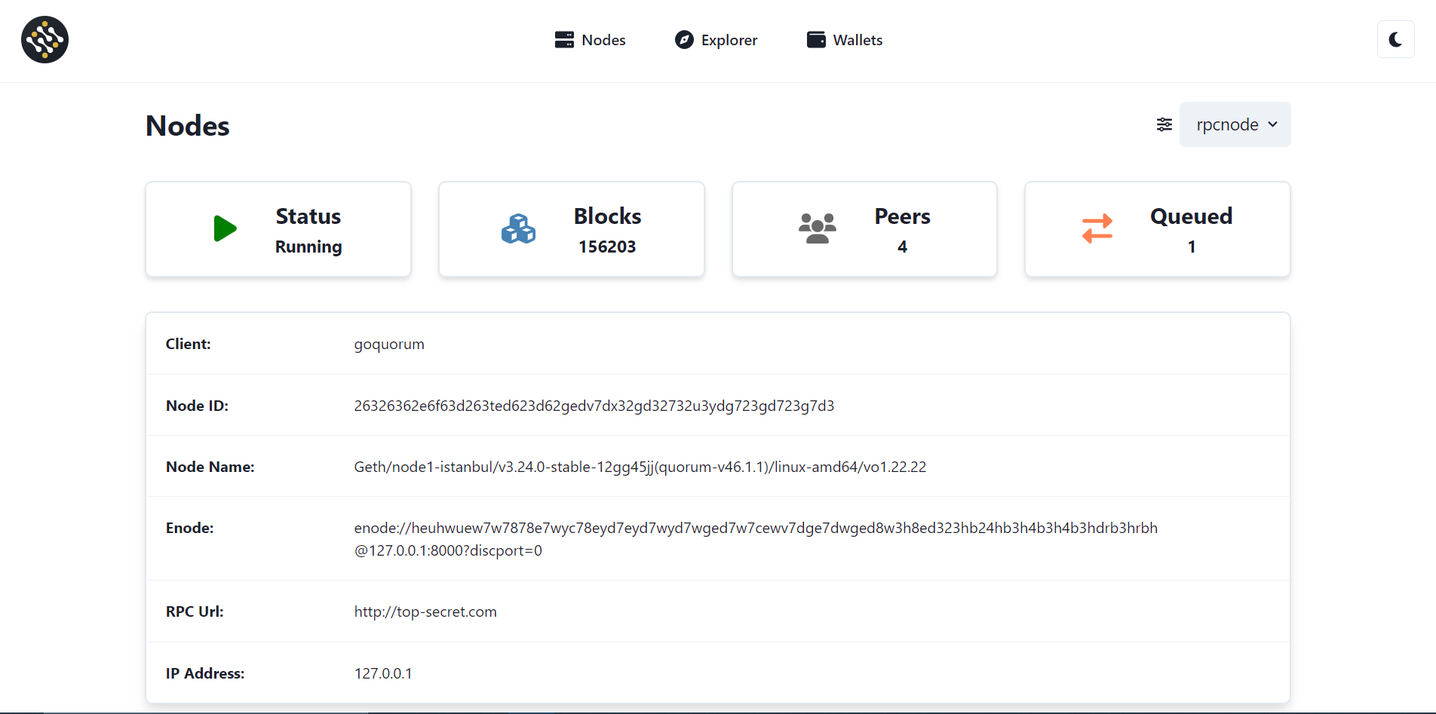
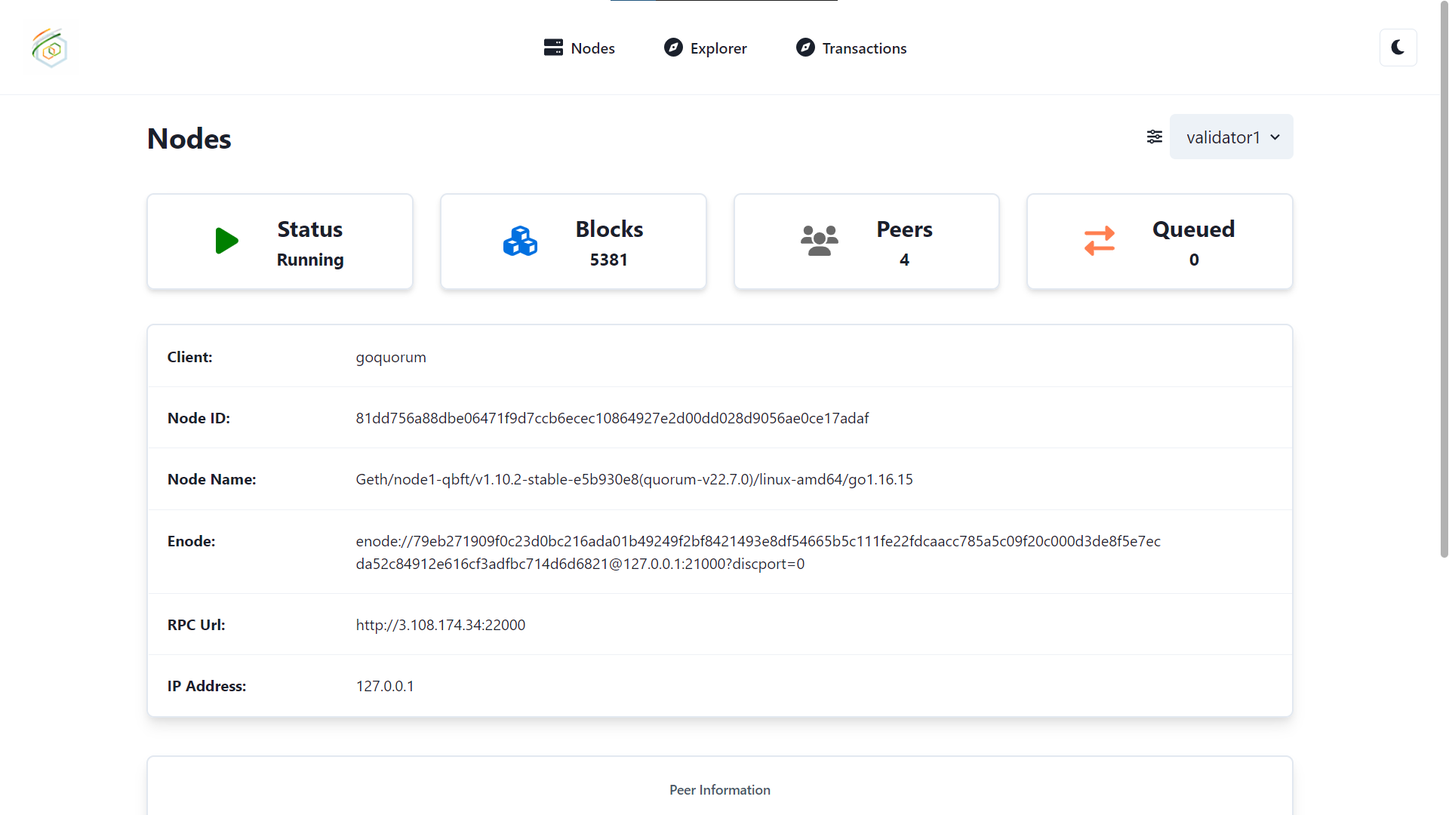
Update config, images, peers api

diff --git a/src/common/components/Footer/ConsensysIcon.tsx b/src/common/components/Footer/ConsensysIcon.tsx
@@ -1,7 +1,8 @@
 /* eslint-disable jsx-a11y/alt-text */
 /* eslint-disable @next/next/no-img-element */
 
-import { HStack, useColorModeValue } from "@chakra-ui/react";
+import { HStack, Text, useColorModeValue } from "@chakra-ui/react";
+import { QuorumIcon } from "../NavBar/QuorumIcon";
 
 export const ConsensysIcon = ({ ...rest }) => {
   const lightMode = "gray.800";
@@ -14,15 +15,10 @@ export const ConsensysIcon = ({ ...rest }) => {
     //   style={{ width: '180px', height: '50px', cursor: "pointer" }}
[1 lines of base64/hex data omitted]
 
-    <HStack onClick={() => window.open("https://www.trential.com/", "_blank")}
+    <HStack onClick={() => window.open("https://blockchain.cse.iitk.ac.in/", "_blank")}
       cursor="pointer">
-      <svg width="50" height="50" viewBox="0 0 21 21" fill="none" xmlns="http://www.w3.org/2000/svg">
-        <path d="M19.8147 10.8408C20.1731 10.4818 20.1731 9.89806 19.8147 9.53912L17.264 6.98893C16.905 6.63048 16.3213 6.63048 15.9628 6.98893L15.6322 7.31954C15.3416 7.61015 14.8688 7.61015 14.5782 7.31954L12.9124 5.65384C12.6218 5.36323 12.6218 4.89035 12.9124 4.59974L13.2431 4.26914C13.602 3.91068 13.602 3.32642 13.2431 2.96797L10.6924 0.417278C10.3339 0.0588239 9.75015 0.0588239 9.39122 0.417278L6.8405 2.96797C6.66683 3.14213 6.57115 3.3725 6.57115 3.61855C6.57115 3.8641 6.66683 4.09548 6.8405 4.26914L7.1711 4.59974C7.46171 4.89035 7.46171 5.36323 7.1711 5.65384L5.5054 7.31954C5.21479 7.61015 4.74192 7.61015 4.45131 7.31954L4.1207 6.98893C3.76174 6.63048 3.17799 6.63048 2.81953 6.98893L0.268841 9.53912C-0.0896136 9.89806 -0.0896136 10.4818 0.268841 10.8403L2.81953 13.391C3.17799 13.7494 3.76174 13.7494 4.1207 13.391L6.67139 10.8408C7.02985 10.4818 7.02985 9.89806 6.67139 9.53912L6.34079 9.20851C6.20003 9.06775 6.12257 8.88042 6.12257 8.68149C6.12257 8.48248 6.20003 8.29515 6.34079 8.15439L8.00649 6.48871C8.15176 6.34341 8.34267 6.27101 8.53351 6.27101C8.72443 6.27101 8.91527 6.34341 9.06061 6.48871L9.23321 6.66136C9.37397 6.80261 9.45145 6.98944 9.45145 7.18841V11.3445C9.45145 11.5567 9.36534 11.7642 9.21496 11.9136L6.10637 15.0223C5.64969 15.4789 5.64969 16.2216 6.10637 16.6784L9.21351 19.7855C9.67015 20.2421 10.4129 20.2421 10.8695 19.7855L13.9766 16.6784C14.4334 16.2216 14.4334 15.4789 13.9766 15.0223L10.8695 11.9152C10.7182 11.7638 10.6321 11.5567 10.6321 11.3445V7.18841C10.6321 6.98893 10.7095 6.80211 10.8503 6.66136L11.023 6.48871C11.3136 6.19861 11.7864 6.1981 12.077 6.48871L13.7427 8.15439C14.0334 8.445 14.0334 8.9179 13.7427 9.20851L13.4121 9.53912C13.0537 9.89806 13.0537 10.4818 13.4121 10.8403L15.9628 13.391C16.3213 13.7494 16.905 13.7494 17.264 13.391L19.8147 10.8408Z" fill="#0170E0" />
-      </svg>
-
-      <svg width="100" height="50" viewBox="0 0 50 16" fill="blue" xmlns="http://www.w3.org/2000/svg">
-        <path d="M4.07397 12.0348C3.70442 12.0348 3.37732 11.9823 3.09267 11.8775C2.81305 11.7676 2.5758 11.6153 2.38107 11.4206C2.19129 11.2208 2.04648 10.9811 1.94664 10.7014C1.84671 10.4218 1.79679 10.1096 1.79679 9.76506V5.75002H1.13763C1.01778 5.75002 0.915339 5.71254 0.830453 5.63765C0.745568 5.55773 0.703125 5.44285 0.703125 5.29307V4.38666L1.93908 4.14697L2.39603 2.25179C2.45595 2.01208 2.6258 1.89223 2.90542 1.89223H4.11893V4.16193H6.04404V5.75002H4.11893V9.60773C4.11893 9.7875 4.16137 9.93735 4.24626 10.0572C4.33618 10.1721 4.46351 10.2295 4.62832 10.2295C4.7132 10.2295 4.78312 10.222 4.83809 10.207C4.89801 10.187 4.94793 10.167 4.98786 10.1471C5.03282 10.1222 5.07274 10.1022 5.10771 10.0872C5.14771 10.0672 5.19259 10.0572 5.24259 10.0572C5.31244 10.0572 5.3674 10.0747 5.40732 10.1096C5.45229 10.1396 5.49725 10.1896 5.54221 10.2595L6.24633 11.3606C5.94671 11.5854 5.60961 11.7551 5.23503 11.8699C4.86053 11.9799 4.47351 12.0348 4.07397 12.0348ZM9.21702 5.34552C9.45671 4.92598 9.73137 4.59643 10.041 4.35674C10.3556 4.11697 10.7152 3.99712 11.1197 3.99712C11.4692 3.99712 11.7539 4.07956 11.9737 4.24437L11.8238 5.95223C11.7989 6.06208 11.7564 6.13704 11.6965 6.17697C11.6415 6.21689 11.5641 6.23689 11.4643 6.23689C11.4243 6.23689 11.3719 6.23437 11.3069 6.22941C11.2421 6.22445 11.1746 6.21941 11.1047 6.21445C11.0348 6.20445 10.9624 6.19697 10.8875 6.19193C10.8176 6.18193 10.7526 6.17697 10.6927 6.17697C10.3531 6.17697 10.081 6.26689 9.87618 6.44666C9.67649 6.62643 9.50664 6.87613 9.36687 7.19575V11.9149H7.04465V4.14697H8.42297C8.53786 4.14697 8.63274 4.15697 8.70763 4.17689C8.78755 4.19689 8.85244 4.22933 8.90244 4.2743C8.95732 4.3143 8.99725 4.36918 9.02229 4.43911C9.05221 4.50903 9.07717 4.59391 9.09717 4.69376L9.21702 5.34552ZM17.4651 7.09834C17.4651 6.91353 17.4401 6.73376 17.3901 6.55903C17.3453 6.38422 17.2679 6.22941 17.1579 6.0946C17.0531 5.95475 16.9133 5.84239 16.7385 5.7575C16.5637 5.67262 16.3514 5.63017 16.1018 5.63017C15.6623 5.63017 15.3177 5.7575 15.068 6.01216C14.8183 6.26185 14.6535 6.62391 14.5737 7.09834H17.4651ZM14.5437 8.44666C14.6185 9.0959 14.8159 9.56781 15.1354 9.86246C15.455 10.1521 15.867 10.2969 16.3714 10.2969C16.6411 10.2969 16.8733 10.2644 17.0681 10.1996C17.2628 10.1346 17.4351 10.0622 17.585 9.98231C17.7398 9.90239 17.8796 9.83002 18.0044 9.76506C18.1343 9.70017 18.2691 9.66765 18.4089 9.66765C18.5937 9.66765 18.7335 9.73514 18.8284 9.86994L19.5026 10.7014C19.2629 10.9761 19.0032 11.2008 18.7235 11.3756C18.4488 11.5454 18.1642 11.6802 17.8696 11.7801C17.5799 11.875 17.2878 11.9399 16.9932 11.9748C16.7035 12.0148 16.4263 12.0348 16.1617 12.0348C15.6173 12.0348 15.1055 11.9473 14.6261 11.7726C14.1517 11.5928 13.7347 11.3281 13.3751 10.9786C13.0205 10.629 12.7384 10.1945 12.5286 9.67521C12.3239 9.15582 12.2215 8.55155 12.2215 7.86239C12.2215 7.34307 12.3089 6.85117 12.4837 6.38674C12.6635 5.92231 12.9182 5.51529 13.2478 5.16575C13.5824 4.81613 13.9843 4.53895 14.4538 4.33422C14.9282 4.12949 15.4625 4.02712 16.0568 4.02712C16.5712 4.02712 17.0406 4.10704 17.4651 4.26681C17.8946 4.42659 18.2616 4.6588 18.5663 4.96346C18.8759 5.26811 19.1156 5.64262 19.2853 6.08704C19.4601 6.52651 19.5476 7.0259 19.5476 7.58521C19.5476 7.76002 19.5401 7.90239 19.525 8.01223C19.5101 8.12208 19.4826 8.20949 19.4427 8.27437C19.4027 8.33933 19.3478 8.38429 19.2779 8.40926C19.213 8.43422 19.128 8.44666 19.0232 8.44666H14.5437ZM22.8519 4.9859C23.0018 4.84613 23.1566 4.71628 23.3163 4.59643C23.4762 4.47659 23.646 4.37666 23.8257 4.29681C24.0105 4.21185 24.2077 4.14697 24.4175 4.10201C24.6322 4.05208 24.8644 4.02712 25.1141 4.02712C25.5386 4.02712 25.9131 4.10201 26.2378 4.25185C26.5673 4.39666 26.8445 4.60139 27.0692 4.86605C27.294 5.12575 27.4637 5.43788 27.5786 5.80246C27.6934 6.16201 27.7509 6.55399 27.7509 6.97849V11.9149H25.4288V6.97849C25.4288 6.59895 25.3414 6.3043 25.1666 6.0946C24.9918 5.87987 24.7346 5.77246 24.395 5.77246C24.1403 5.77246 23.9006 5.82743 23.6759 5.93727C23.4562 6.04216 23.2414 6.18697 23.0317 6.3717V11.9149H20.7095V4.14697H22.1478C22.4374 4.14697 22.6272 4.27681 22.7171 4.53651L22.8519 4.9859ZM32.0328 12.0348C31.6633 12.0348 31.3362 11.9823 31.0515 11.8775C30.7719 11.7676 30.5347 11.6153 30.3399 11.4206C30.1502 11.2208 30.0053 10.9811 29.9054 10.7014C29.8056 10.4218 29.7556 10.1096 29.7556 9.76506V5.75002H29.0964C28.9766 5.75002 28.8742 5.71254 28.7893 5.63765C28.7044 5.55773 28.662 5.44285 28.662 5.29307V4.38666L29.8979 4.14697L30.3549 2.25179C30.4148 2.01208 30.5846 1.89223 30.8643 1.89223H32.0778V4.16193H34.0029V5.75002H32.0778V9.60773C32.0778 9.7875 32.1202 9.93735 32.2051 10.0572C32.295 10.1721 32.4224 10.2295 32.5872 10.2295C32.6721 10.2295 32.742 10.222 32.7969 10.207C32.8568 10.187 32.9067 10.167 32.9467 10.1471C32.9917 10.1222 33.0316 10.1022 33.0666 10.0872C33.1065 10.0672 33.1514 10.0572 33.2014 10.0572C33.2713 10.0572 33.3263 10.0747 33.3662 10.1096C33.4111 10.1396 33.4561 10.1896 33.501 10.2595L34.2052 11.3606C33.9055 11.5854 33.5685 11.7551 33.1939 11.8699C32.8194 11.9799 32.4324 12.0348 32.0328 12.0348ZM37.3781 4.14697V11.9149H35.056V4.14697H37.3781ZM37.6178 2.01958C37.6178 2.20435 37.5804 2.37914 37.5054 2.54393C37.4305 2.70374 37.3282 2.84606 37.1983 2.97091C37.0685 3.09076 36.9162 3.18814 36.7414 3.26305C36.5716 3.33296 36.3893 3.36792 36.1946 3.36792C36.0048 3.36792 35.8275 3.33296 35.6627 3.26305C35.4979 3.18814 35.3506 3.09076 35.2208 2.97091C35.0959 2.84606 34.996 2.70374 34.9211 2.54393C34.8512 2.37914 34.8163 2.20435 34.8163 2.01958C34.8163 1.82981 34.8512 1.65252 34.9211 1.48773C34.996 1.32293 35.0959 1.17811 35.2208 1.05327C35.3506 0.928418 35.4979 0.831036 35.6627 0.76112C35.8275 0.691212 36.0048 0.65625 36.1946 0.65625C36.3893 0.65625 36.5716 0.691212 36.7414 0.76112C36.9162 0.831036 37.0685 0.928418 37.1983 1.05327C37.3282 1.17811 37.4305 1.32293 37.5054 1.48773C37.5804 1.65252 37.6178 1.82981 37.6178 2.01958ZM43.0052 8.75384C42.5408 8.77376 42.1588 8.81376 41.8591 8.87368C41.5595 8.93361 41.3223 9.00849 41.1475 9.09842C40.9727 9.18826 40.8504 9.29063 40.7805 9.40552C40.7155 9.52033 40.6831 9.64521 40.6831 9.78002C40.6831 10.0448 40.7555 10.232 40.9003 10.3419C41.0451 10.4467 41.2573 10.4992 41.537 10.4992C41.8366 10.4992 42.0989 10.4467 42.3235 10.3419C42.5482 10.237 42.7755 10.0672 43.0052 9.83246V8.75384ZM38.8253 5.22567C39.2947 4.81117 39.8141 4.50399 40.3834 4.3043C40.9577 4.09949 41.572 3.99712 42.2262 3.99712C42.6956 3.99712 43.1176 4.07452 43.4921 4.22933C43.8717 4.37918 44.1912 4.59139 44.4509 4.86605C44.7156 5.13575 44.9179 5.45788 45.0577 5.83239C45.1975 6.20697 45.2674 6.61643 45.2674 7.06086V11.9149H44.2037C43.984 11.9149 43.8167 11.885 43.7018 11.8251C43.592 11.7651 43.4996 11.6402 43.4246 11.4505L43.2599 11.0235C43.0651 11.1883 42.8779 11.3331 42.6981 11.458C42.5183 11.5828 42.3311 11.6902 42.1363 11.7801C41.9465 11.865 41.7418 11.9274 41.5221 11.9673C41.3073 12.0123 41.0676 12.0348 40.8029 12.0348C40.4483 12.0348 40.1263 11.9899 39.8366 11.8999C39.5469 11.8051 39.2998 11.6677 39.095 11.488C38.8953 11.3082 38.7405 11.086 38.6306 10.8212C38.5207 10.5516 38.4658 10.242 38.4658 9.89239C38.4658 9.61277 38.5357 9.33063 38.6755 9.04597C38.8153 8.75628 39.0576 8.49414 39.4021 8.25941C39.7467 8.01972 40.2111 7.81994 40.7954 7.66017C41.3797 7.50033 42.1163 7.41048 43.0052 7.39048V7.06086C43.0052 6.60643 42.9103 6.27933 42.7205 6.07956C42.5358 5.87483 42.2711 5.77246 41.9266 5.77246C41.6519 5.77246 41.4272 5.80246 41.2524 5.86239C41.0776 5.92231 40.9203 5.98972 40.7805 6.0646C40.6456 6.13949 40.5133 6.20697 40.3834 6.26689C40.2536 6.32681 40.0988 6.35674 39.919 6.35674C39.7592 6.35674 39.6243 6.31681 39.5145 6.23689C39.4047 6.15697 39.3147 6.06208 39.2448 5.95223L38.8253 5.22567ZM49.0739 0.701196V11.9149H46.7518V0.701196H49.0739Z" fill="#000000" />
-      </svg>
+      <QuorumIcon size={80}/>
+      <Text fontSize='2xl' fontWeight='bold' >National Blockchain Project</Text>
 
     </HStack>
   );

diff --git a/src/common/components/Footer/Footer.tsx b/src/common/components/Footer/Footer.tsx
@@ -3,8 +3,9 @@ import {
 } from "@chakra-ui/react";
 import { IconProp } from "@fortawesome/fontawesome-svg-core";
 import {
-  faLinkedin, faTwitter, faYoutube
+  faLinkedin
 } from "@fortawesome/free-brands-svg-icons";
+import { faEnvelope } from "@fortawesome/free-solid-svg-icons";
 import { FontAwesomeIcon } from "@fortawesome/react-fontawesome";
 import { motion } from "framer-motion";
 import { ConsensysIcon } from "./ConsensysIcon";
@@ -38,12 +39,12 @@ export default function Footer() {
           >
             <ConsensysIcon boxSize="8em" />
             <ButtonGroup variant="ghost">
-              <Link isExternal href="https://twitter.com/trentialtech">
+              <Link isExternal href="mailto: blockchain@cse.iitk.ac.in">
                 <IconButton
                   aria-label="Twitter"
                   icon={
                     <FontAwesomeIcon
-                      icon={faTwitter as IconProp}
+                      icon={faEnvelope as IconProp}
                       fontSize="1.25rem"
                     />
                   }
@@ -65,7 +66,7 @@ export default function Footer() {
               </Link> */}
               <Link
                 isExternal
-                href="https://www.linkedin.com/company/trential/mycompany/"
+                href="https://www.linkedin.com/company/national-blockchain-project/"
               >
                 <IconButton
                   aria-label="LinkedIn"
@@ -80,20 +81,40 @@ export default function Footer() {
             </ButtonGroup>
           </Stack>
           <VStack mt={0}>
-            <Box sx={{ display: "inline-flex" }}>
+            {/* <Box sx={{ display: "inline-flex" }}>
               <strong>Contact Us:&nbsp;</strong>
               <a href="mailto: info@trential.com">&nbsp; info@trential.com&nbsp;</a>
               |
               <a href="tel: +91-9149338300">&nbsp; +91-9149338300</a>
 
-            </Box>
+            </Box> */}
             <Text
               align={{ base: "center", md: "left" }}
               fontSize="sm"
               color="subtle"
             >
-              &copy; {new Date().getFullYear()} Trential. All
+              &copy; {new Date().getFullYear()} National Blockchain Project. All
               rights reserved.
+            </Text>
+            <Text
+              align={{ base: "center", md: "left", }}
+              fontSize="sm"
+              color="subtle"
+              display="flex"
+            >
+              Maintained by <a
+                style={{ display: "flex", margin: '2.5px 5px' }}
+                href="https://www.trential.com/"
+                target="_blank"
+                rel="noreferrer">
+                <svg width="20" height="20" viewBox="0 0 21 21" fill="none" xmlns="http://www.w3.org/2000/svg">
+                  <path d="M19.8147 10.8408C20.1731 10.4818 20.1731 9.89806 19.8147 9.53912L17.264 6.98893C16.905 6.63048 16.3213 6.63048 15.9628 6.98893L15.6322 7.31954C15.3416 7.61015 14.8688 7.61015 14.5782 7.31954L12.9124 5.65384C12.6218 5.36323 12.6218 4.89035 12.9124 4.59974L13.2431 4.26914C13.602 3.91068 13.602 3.32642 13.2431 2.96797L10.6924 0.417278C10.3339 0.0588239 9.75015 0.0588239 9.39122 0.417278L6.8405 2.96797C6.66683 3.14213 6.57115 3.3725 6.57115 3.61855C6.57115 3.8641 6.66683 4.09548 6.8405 4.26914L7.1711 4.59974C7.46171 4.89035 7.46171 5.36323 7.1711 5.65384L5.5054 7.31954C5.21479 7.61015 4.74192 7.61015 4.45131 7.31954L4.1207 6.98893C3.76174 6.63048 3.17799 6.63048 2.81953 6.98893L0.268841 9.53912C-0.0896136 9.89806 -0.0896136 10.4818 0.268841 10.8403L2.81953 13.391C3.17799 13.7494 3.76174 13.7494 4.1207 13.391L6.67139 10.8408C7.02985 10.4818 7.02985 9.89806 6.67139 9.53912L6.34079 9.20851C6.20003 9.06775 6.12257 8.88042 6.12257 8.68149C6.12257 8.48248 6.20003 8.29515 6.34079 8.15439L8.00649 6.48871C8.15176 6.34341 8.34267 6.27101 8.53351 6.27101C8.72443 6.27101 8.91527 6.34341 9.06061 6.48871L9.23321 6.66136C9.37397 6.80261 9.45145 6.98944 9.45145 7.18841V11.3445C9.45145 11.5567 9.36534 11.7642 9.21496 11.9136L6.10637 15.0223C5.64969 15.4789 5.64969 16.2216 6.10637 16.6784L9.21351 19.7855C9.67015 20.2421 10.4129 20.2421 10.8695 19.7855L13.9766 16.6784C14.4334 16.2216 14.4334 15.4789 13.9766 15.0223L10.8695 11.9152C10.7182 11.7638 10.6321 11.5567 10.6321 11.3445V7.18841C10.6321 6.98893 10.7095 6.80211 10.8503 6.66136L11.023 6.48871C11.3136 6.19861 11.7864 6.1981 12.077 6.48871L13.7427 8.15439C14.0334 8.445 14.0334 8.9179 13.7427 9.20851L13.4121 9.53912C13.0537 9.89806 13.0537 10.4818 13.4121 10.8403L15.9628 13.391C16.3213 13.7494 16.905 13.7494 17.264 13.391L19.8147 10.8408Z" fill="#0170E0" />
+                </svg>
+                &nbsp;
+                <svg width="50" height="20" viewBox="0 0 50 16" fill="blue" xmlns="http://www.w3.org/2000/svg">
+                  <path d="M4.07397 12.0348C3.70442 12.0348 3.37732 11.9823 3.09267 11.8775C2.81305 11.7676 2.5758 11.6153 2.38107 11.4206C2.19129 11.2208 2.04648 10.9811 1.94664 10.7014C1.84671 10.4218 1.79679 10.1096 1.79679 9.76506V5.75002H1.13763C1.01778 5.75002 0.915339 5.71254 0.830453 5.63765C0.745568 5.55773 0.703125 5.44285 0.703125 5.29307V4.38666L1.93908 4.14697L2.39603 2.25179C2.45595 2.01208 2.6258 1.89223 2.90542 1.89223H4.11893V4.16193H6.04404V5.75002H4.11893V9.60773C4.11893 9.7875 4.16137 9.93735 4.24626 10.0572C4.33618 10.1721 4.46351 10.2295 4.62832 10.2295C4.7132 10.2295 4.78312 10.222 4.83809 10.207C4.89801 10.187 4.94793 10.167 4.98786 10.1471C5.03282 10.1222 5.07274 10.1022 5.10771 10.0872C5.14771 10.0672 5.19259 10.0572 5.24259 10.0572C5.31244 10.0572 5.3674 10.0747 5.40732 10.1096C5.45229 10.1396 5.49725 10.1896 5.54221 10.2595L6.24633 11.3606C5.94671 11.5854 5.60961 11.7551 5.23503 11.8699C4.86053 11.9799 4.47351 12.0348 4.07397 12.0348ZM9.21702 5.34552C9.45671 4.92598 9.73137 4.59643 10.041 4.35674C10.3556 4.11697 10.7152 3.99712 11.1197 3.99712C11.4692 3.99712 11.7539 4.07956 11.9737 4.24437L11.8238 5.95223C11.7989 6.06208 11.7564 6.13704 11.6965 6.17697C11.6415 6.21689 11.5641 6.23689 11.4643 6.23689C11.4243 6.23689 11.3719 6.23437 11.3069 6.22941C11.2421 6.22445 11.1746 6.21941 11.1047 6.21445C11.0348 6.20445 10.9624 6.19697 10.8875 6.19193C10.8176 6.18193 10.7526 6.17697 10.6927 6.17697C10.3531 6.17697 10.081 6.26689 9.87618 6.44666C9.67649 6.62643 9.50664 6.87613 9.36687 7.19575V11.9149H7.04465V4.14697H8.42297C8.53786 4.14697 8.63274 4.15697 8.70763 4.17689C8.78755 4.19689 8.85244 4.22933 8.90244 4.2743C8.95732 4.3143 8.99725 4.36918 9.02229 4.43911C9.05221 4.50903 9.07717 4.59391 9.09717 4.69376L9.21702 5.34552ZM17.4651 7.09834C17.4651 6.91353 17.4401 6.73376 17.3901 6.55903C17.3453 6.38422 17.2679 6.22941 17.1579 6.0946C17.0531 5.95475 16.9133 5.84239 16.7385 5.7575C16.5637 5.67262 16.3514 5.63017 16.1018 5.63017C15.6623 5.63017 15.3177 5.7575 15.068 6.01216C14.8183 6.26185 14.6535 6.62391 14.5737 7.09834H17.4651ZM14.5437 8.44666C14.6185 9.0959 14.8159 9.56781 15.1354 9.86246C15.455 10.1521 15.867 10.2969 16.3714 10.2969C16.6411 10.2969 16.8733 10.2644 17.0681 10.1996C17.2628 10.1346 17.4351 10.0622 17.585 9.98231C17.7398 9.90239 17.8796 9.83002 18.0044 9.76506C18.1343 9.70017 18.2691 9.66765 18.4089 9.66765C18.5937 9.66765 18.7335 9.73514 18.8284 9.86994L19.5026 10.7014C19.2629 10.9761 19.0032 11.2008 18.7235 11.3756C18.4488 11.5454 18.1642 11.6802 17.8696 11.7801C17.5799 11.875 17.2878 11.9399 16.9932 11.9748C16.7035 12.0148 16.4263 12.0348 16.1617 12.0348C15.6173 12.0348 15.1055 11.9473 14.6261 11.7726C14.1517 11.5928 13.7347 11.3281 13.3751 10.9786C13.0205 10.629 12.7384 10.1945 12.5286 9.67521C12.3239 9.15582 12.2215 8.55155 12.2215 7.86239C12.2215 7.34307 12.3089 6.85117 12.4837 6.38674C12.6635 5.92231 12.9182 5.51529 13.2478 5.16575C13.5824 4.81613 13.9843 4.53895 14.4538 4.33422C14.9282 4.12949 15.4625 4.02712 16.0568 4.02712C16.5712 4.02712 17.0406 4.10704 17.4651 4.26681C17.8946 4.42659 18.2616 4.6588 18.5663 4.96346C18.8759 5.26811 19.1156 5.64262 19.2853 6.08704C19.4601 6.52651 19.5476 7.0259 19.5476 7.58521C19.5476 7.76002 19.5401 7.90239 19.525 8.01223C19.5101 8.12208 19.4826 8.20949 19.4427 8.27437C19.4027 8.33933 19.3478 8.38429 19.2779 8.40926C19.213 8.43422 19.128 8.44666 19.0232 8.44666H14.5437ZM22.8519 4.9859C23.0018 4.84613 23.1566 4.71628 23.3163 4.59643C23.4762 4.47659 23.646 4.37666 23.8257 4.29681C24.0105 4.21185 24.2077 4.14697 24.4175 4.10201C24.6322 4.05208 24.8644 4.02712 25.1141 4.02712C25.5386 4.02712 25.9131 4.10201 26.2378 4.25185C26.5673 4.39666 26.8445 4.60139 27.0692 4.86605C27.294 5.12575 27.4637 5.43788 27.5786 5.80246C27.6934 6.16201 27.7509 6.55399 27.7509 6.97849V11.9149H25.4288V6.97849C25.4288 6.59895 25.3414 6.3043 25.1666 6.0946C24.9918 5.87987 24.7346 5.77246 24.395 5.77246C24.1403 5.77246 23.9006 5.82743 23.6759 5.93727C23.4562 6.04216 23.2414 6.18697 23.0317 6.3717V11.9149H20.7095V4.14697H22.1478C22.4374 4.14697 22.6272 4.27681 22.7171 4.53651L22.8519 4.9859ZM32.0328 12.0348C31.6633 12.0348 31.3362 11.9823 31.0515 11.8775C30.7719 11.7676 30.5347 11.6153 30.3399 11.4206C30.1502 11.2208 30.0053 10.9811 29.9054 10.7014C29.8056 10.4218 29.7556 10.1096 29.7556 9.76506V5.75002H29.0964C28.9766 5.75002 28.8742 5.71254 28.7893 5.63765C28.7044 5.55773 28.662 5.44285 28.662 5.29307V4.38666L29.8979 4.14697L30.3549 2.25179C30.4148 2.01208 30.5846 1.89223 30.8643 1.89223H32.0778V4.16193H34.0029V5.75002H32.0778V9.60773C32.0778 9.7875 32.1202 9.93735 32.2051 10.0572C32.295 10.1721 32.4224 10.2295 32.5872 10.2295C32.6721 10.2295 32.742 10.222 32.7969 10.207C32.8568 10.187 32.9067 10.167 32.9467 10.1471C32.9917 10.1222 33.0316 10.1022 33.0666 10.0872C33.1065 10.0672 33.1514 10.0572 33.2014 10.0572C33.2713 10.0572 33.3263 10.0747 33.3662 10.1096C33.4111 10.1396 33.4561 10.1896 33.501 10.2595L34.2052 11.3606C33.9055 11.5854 33.5685 11.7551 33.1939 11.8699C32.8194 11.9799 32.4324 12.0348 32.0328 12.0348ZM37.3781 4.14697V11.9149H35.056V4.14697H37.3781ZM37.6178 2.01958C37.6178 2.20435 37.5804 2.37914 37.5054 2.54393C37.4305 2.70374 37.3282 2.84606 37.1983 2.97091C37.0685 3.09076 36.9162 3.18814 36.7414 3.26305C36.5716 3.33296 36.3893 3.36792 36.1946 3.36792C36.0048 3.36792 35.8275 3.33296 35.6627 3.26305C35.4979 3.18814 35.3506 3.09076 35.2208 2.97091C35.0959 2.84606 34.996 2.70374 34.9211 2.54393C34.8512 2.37914 34.8163 2.20435 34.8163 2.01958C34.8163 1.82981 34.8512 1.65252 34.9211 1.48773C34.996 1.32293 35.0959 1.17811 35.2208 1.05327C35.3506 0.928418 35.4979 0.831036 35.6627 0.76112C35.8275 0.691212 36.0048 0.65625 36.1946 0.65625C36.3893 0.65625 36.5716 0.691212 36.7414 0.76112C36.9162 0.831036 37.0685 0.928418 37.1983 1.05327C37.3282 1.17811 37.4305 1.32293 37.5054 1.48773C37.5804 1.65252 37.6178 1.82981 37.6178 2.01958ZM43.0052 8.75384C42.5408 8.77376 42.1588 8.81376 41.8591 8.87368C41.5595 8.93361 41.3223 9.00849 41.1475 9.09842C40.9727 9.18826 40.8504 9.29063 40.7805 9.40552C40.7155 9.52033 40.6831 9.64521 40.6831 9.78002C40.6831 10.0448 40.7555 10.232 40.9003 10.3419C41.0451 10.4467 41.2573 10.4992 41.537 10.4992C41.8366 10.4992 42.0989 10.4467 42.3235 10.3419C42.5482 10.237 42.7755 10.0672 43.0052 9.83246V8.75384ZM38.8253 5.22567C39.2947 4.81117 39.8141 4.50399 40.3834 4.3043C40.9577 4.09949 41.572 3.99712 42.2262 3.99712C42.6956 3.99712 43.1176 4.07452 43.4921 4.22933C43.8717 4.37918 44.1912 4.59139 44.4509 4.86605C44.7156 5.13575 44.9179 5.45788 45.0577 5.83239C45.1975 6.20697 45.2674 6.61643 45.2674 7.06086V11.9149H44.2037C43.984 11.9149 43.8167 11.885 43.7018 11.8251C43.592 11.7651 43.4996 11.6402 43.4246 11.4505L43.2599 11.0235C43.0651 11.1883 42.8779 11.3331 42.6981 11.458C42.5183 11.5828 42.3311 11.6902 42.1363 11.7801C41.9465 11.865 41.7418 11.9274 41.5221 11.9673C41.3073 12.0123 41.0676 12.0348 40.8029 12.0348C40.4483 12.0348 40.1263 11.9899 39.8366 11.8999C39.5469 11.8051 39.2998 11.6677 39.095 11.488C38.8953 11.3082 38.7405 11.086 38.6306 10.8212C38.5207 10.5516 38.4658 10.242 38.4658 9.89239C38.4658 9.61277 38.5357 9.33063 38.6755 9.04597C38.8153 8.75628 39.0576 8.49414 39.4021 8.25941C39.7467 8.01972 40.2111 7.81994 40.7954 7.66017C41.3797 7.50033 42.1163 7.41048 43.0052 7.39048V7.06086C43.0052 6.60643 42.9103 6.27933 42.7205 6.07956C42.5358 5.87483 42.2711 5.77246 41.9266 5.77246C41.6519 5.77246 41.4272 5.80246 41.2524 5.86239C41.0776 5.92231 40.9203 5.98972 40.7805 6.0646C40.6456 6.13949 40.5133 6.20697 40.3834 6.26689C40.2536 6.32681 40.0988 6.35674 39.919 6.35674C39.7592 6.35674 39.6243 6.31681 39.5145 6.23689C39.4047 6.15697 39.3147 6.06208 39.2448 5.95223L38.8253 5.22567ZM49.0739 0.701196V11.9149H46.7518V0.701196H49.0739Z" fill="#000000" />
+                </svg>
+              </a>
             </Text>
           </VStack>
         </Stack>

diff --git a/src/common/components/NavBar/QuorumIcon.tsx b/src/common/components/NavBar/QuorumIcon.tsx
@@ -1,26 +1,18 @@
 /* eslint-disable jsx-a11y/alt-text */
 /* eslint-disable @next/next/no-img-element */
 
-import { useColorMode, useColorModeValue } from "@chakra-ui/react";
+import Image from 'next/image';
+import nbpLogo from '../../../assets/imgs/nbpLogo.png';
 
-export const QuorumIcon = ({ ...rest }) => {
-  const { colorMode } = useColorMode();
-  const lightMode = "gray.800";
-  const darkMode = "white";
-  const colorFill = useColorModeValue(lightMode, darkMode);
+export const QuorumIcon = ({ size=60, ...rest }) => {
 
   return (
-    <svg width="60" height="60" viewBox="0 0 85 85" fill="none" xmlns="http://www.w3.org/2000/svg">
-      <circle cx="42.5" cy="42.5" r="42.5" fill="#ffffff" />
-      <path d="M50.4682 45.7408C49.2122 45.7351 47.9972 45.2933 47.0306 44.4907C46.0639 43.6882 45.4056 42.5747 45.168 41.3403C44.8199 39.4734 44.3113 37.6645 43.3054 36.03C43.0048 35.5096 42.647 35.0244 42.2388 34.5835C40.8322 33.159 39.4754 31.6766 37.9415 30.3787C35.9075 28.5883 33.4229 27.389 30.7567 26.9103C29.5736 26.6811 28.5006 26.0637 27.7074 25.1558C26.9141 24.2479 26.4458 23.1012 26.3766 21.8971C26.3112 20.6305 26.6826 19.3799 27.4287 18.3547C28.1747 17.3295 29.2501 16.5921 30.4747 16.2659C31.1947 16.0836 31.9445 16.0508 32.6777 16.1696C33.4109 16.2884 34.112 16.5562 34.7378 16.9566C35.3636 17.3569 35.9008 17.8814 36.3163 18.4975C36.7319 19.1137 37.0169 19.8085 37.1539 20.5391C37.524 22.5195 38.052 24.4417 39.0601 26.2064C39.5343 27.078 40.1246 27.881 40.815 28.5934C41.9425 29.7135 42.9871 30.9221 44.2639 31.8846C46.2895 33.4141 48.5969 34.3019 51.0591 34.7999C52.3082 35.0516 53.4412 35.4802 54.3558 36.4068C55.1281 37.176 55.6523 38.1593 55.8606 39.2296C56.069 40.2999 55.952 41.4082 55.5248 42.4114C54.84 44.1172 52.9056 45.8099 50.4682 45.7408Z" fill="#0170E0" />
-      <path d="M78.0026 42.0879C78.0909 44.7923 75.9297 47.213 73.2743 47.5171C71.8759 47.7021 70.4604 47.3364 69.3262 46.497C68.192 45.6577 67.4278 44.4103 67.1948 43.0179C66.8466 40.9518 66.2028 38.9965 64.9841 37.2649C64.8624 37.0692 64.7246 36.884 64.5721 36.7112C62.6569 34.7529 60.8521 32.6703 58.5756 31.1021C56.9555 29.9509 55.1028 29.1692 53.1481 28.812C50.7938 28.4082 49.2158 27.0558 48.6051 24.7268C47.6544 21.0981 50.6528 17.6021 54.3835 17.9313C56.8706 18.1497 58.8851 20.1439 59.3134 22.7024C59.7416 25.2609 60.5928 27.7778 62.3532 29.7884C64.315 32.0205 66.3547 34.1944 69.1927 35.3864C70.6138 35.992 72.0962 36.4418 73.6141 36.7279C76.2035 37.2034 78.0964 39.6429 78.0026 42.0879Z" fill="#0170E0" />
-      <path d="M11.3971 36.4519C12.6834 36.4357 13.934 36.8759 14.927 37.6946C15.92 38.5133 16.5912 39.6574 16.8216 40.9242C17.1107 42.7247 17.6697 44.4712 18.4797 46.1047C19.0383 47.2197 19.7747 48.236 20.6601 49.1139C21.6384 50.0599 22.5282 51.0942 23.5865 51.9517C25.695 53.6608 28.1434 54.6207 30.7714 55.1518C32.0177 55.4033 33.1619 55.8294 34.0517 56.7835C35.4886 58.321 35.9861 60.1026 35.392 62.1354C35.1422 63.0837 34.6313 63.9428 33.9175 64.6146C33.2037 65.2865 32.3157 65.7443 31.3546 65.9357C30.6467 66.1049 29.9119 66.1288 29.1946 66.006C28.4772 65.8831 27.7922 65.616 27.1808 65.2207C26.5695 64.8255 26.0445 64.3103 25.6376 63.7064C25.2307 63.1024 24.9504 62.4222 24.8135 61.7067C24.4989 60.1219 24.1087 58.5646 23.3514 57.1183C22.8397 56.1091 22.1698 55.1884 21.3672 54.3912C20.0767 53.1411 18.8802 51.7914 17.4992 50.6435C15.4293 48.9314 13.1164 47.7146 10.4249 47.2722C9.21074 47.0543 8.10854 46.4248 7.30341 45.4895C6.49827 44.5542 6.03924 43.3701 6.00341 42.136C5.95915 40.8787 6.34636 39.6442 7.10062 38.6377C7.85487 37.6313 8.9307 36.9137 10.1491 36.6043C10.5557 36.4941 10.9759 36.4427 11.3971 36.4519Z" fill="#0170E0" />
-      <path d="M51.1789 67.2175C48.7525 67.3116 46.282 65.2952 45.8537 62.7508C45.5869 60.8965 44.9628 59.1117 44.0161 57.4956C43.6893 56.9377 43.2999 56.419 42.8555 55.9495C41.4737 54.5665 40.1534 53.1091 38.6523 51.845C36.7786 50.2629 34.6896 49.0793 32.2742 48.5426C31.9596 48.4736 31.6414 48.4293 31.3262 48.3574C30.3639 48.1491 29.4753 47.6854 28.7537 47.0149C28.032 46.3445 27.504 45.492 27.2249 44.5469C26.9459 43.6019 26.9261 42.5991 27.1677 41.6437C27.4092 40.6884 27.9032 39.8157 28.5978 39.1172C29.2924 38.4188 30.162 37.9203 31.1154 37.6741C32.0688 37.4279 33.0708 37.4431 34.0164 37.718C34.9619 37.9929 35.8161 38.5174 36.4893 39.2365C37.1625 39.9556 37.6299 40.8429 37.8426 41.8051C38.1387 43.188 38.4118 44.5986 38.9478 45.929C39.595 47.6131 40.5936 49.1397 41.877 50.4069C42.8222 51.3169 43.6843 52.3181 44.7124 53.1422C46.7158 54.7436 49.0344 55.6564 51.5103 56.2234C52.1918 56.3346 52.859 56.52 53.5001 56.7766C54.5518 57.2575 55.4239 58.06 55.9909 59.0686C56.5579 60.0772 56.7906 61.2399 56.6554 62.3892C56.5202 63.5386 56.0242 64.6153 55.2387 65.4646C54.4532 66.3138 53.4187 66.8917 52.2841 67.1151C51.918 67.1705 51.549 67.2047 51.1789 67.2175Z" fill="#0170E0" />
-      <path d="M42.0714 77.9956C40.995 77.9845 39.946 77.6541 39.0573 77.0462C38.1685 76.4383 37.4799 75.5802 37.0785 74.5805C36.6771 73.5808 36.581 72.4844 36.8024 71.43C37.0238 70.3756 37.5527 69.4106 38.3221 68.6572C39.0916 67.9037 40.0671 67.3956 41.1251 67.1972C42.1832 66.9987 43.2763 67.1189 44.2661 67.5424C45.256 67.9659 46.098 68.6737 46.6858 69.5764C47.2736 70.479 47.5806 71.5358 47.5681 72.6132C47.5509 75.4786 45.0944 78.1228 42.0714 77.9956Z" fill="black" />
-      <path d="M62.4356 57.6522C61.3586 57.6433 60.3084 57.315 59.418 56.7087C58.5275 56.1023 57.8367 55.2453 57.4331 54.2459C57.0294 53.2465 56.931 52.1498 57.1503 51.0944C57.3696 50.039 57.8967 49.0725 58.665 48.3171C59.4333 47.5617 60.4082 47.0513 61.4664 46.8506C62.5246 46.6499 63.6185 46.7678 64.6097 47.1895C65.6008 47.6112 66.4448 48.3177 67.0347 49.2195C67.6246 50.1214 67.9339 51.1782 67.9236 52.2561C67.9071 55.1191 65.4393 57.7794 62.4356 57.6522Z" fill="black" />
-      <path d="M41.9613 6.00024C43.2176 6.01384 44.4303 6.4628 45.3931 7.27069C46.3558 8.07858 47.0091 9.19545 47.2416 10.4312C47.4741 11.6669 47.2715 12.9451 46.6683 14.0481C46.0651 15.1512 45.0986 16.0109 43.9334 16.4809C42.7681 16.951 41.476 17.0023 40.2772 16.6261C39.0784 16.2499 38.0469 15.4695 37.3583 14.4177C36.6698 13.366 36.3667 12.1078 36.5007 10.8576C36.6347 9.6073 37.1975 8.44215 38.0932 7.56048C39.1251 6.54791 40.5163 5.98674 41.9613 6.00024Z" fill="black" />
-      <path d="M16.2561 31.6274C16.2715 30.3678 16.7227 29.1524 17.5329 28.1884C18.3432 27.2244 19.4623 26.5713 20.6996 26.3404C21.9369 26.1095 23.216 26.3151 24.3189 26.9221C25.4218 27.5292 26.2803 28.5001 26.7482 29.6696C27.216 30.8391 27.2644 32.1348 26.8849 33.3359C26.5055 34.537 25.7217 35.5694 24.6671 36.257C23.6125 36.9447 22.3523 37.2452 21.1012 37.1073C19.8501 36.9694 18.6855 36.4016 17.8057 35.5007C16.7972 34.4659 16.2399 33.073 16.2561 31.6274Z" fill="black" />
-    </svg>
 
+    <Image
+      src={nbpLogo}
+      alt="National Blockchain Project"
+      width={size}
+      height={size}
+    />
   );
 };

diff --git a/src/common/components/Nodes/NodePeers.tsx b/src/common/components/Nodes/NodePeers.tsx
@@ -1,17 +1,8 @@
 import {
-  Text,
-  Container,
-  Flex,
-  TableContainer,
-  Table,
-  TableCaption,
-  Thead,
-  Tr,
-  Th,
-  Tbody,
-  Td,
-  Tooltip,
-  Center,
+  Center, Container,
+  Flex, Table,
+  TableCaption, TableContainer, Tbody,
+  Td, Text, Th, Thead, Tooltip, Tr
 } from "@chakra-ui/react";
 import { motion } from "framer-motion";
 const MotionContainer = motion(Container);
@@ -44,68 +35,86 @@ export default function NodePeers({ peers }: IProps) {
               <Thead>
                 <Tr>
                   <Th>
-                    <Center>ID</Center>
+                    <Center>Org ID</Center>
                   </Th>
                   <Th>
-                    <Center>E-Node</Center>
+                    <Center>Ultimate Parent</Center>
                   </Th>
                   <Th>
-                    <Center>Local Address</Center>
+                    <Center>ENODE URL</Center>
+                  </Th>
+                  {/* <Th>
+                    <Center>Org ID</Center>
                   </Th>
                   <Th>
                     <Center>Remote-Address</Center>
-                  </Th>
+                  </Th> */}
                 </Tr>
               </Thead>
               <Tbody>
                 {peers.map((peer: any) => {
                   return (
-                    <>
-                      <Tr>
+                      <Tr key={peer.orgId}>
                         <Td>
                           <Center>
-                            <Tooltip label={peer.id} placement="auto">
+                            <Tooltip label={peer.orgId} placement="auto">
                               <MotionText
-                                key={peer.id}
+                                key={peer.orgId}
                                 initial={{ opacity: 0 }}
                                 animate={{ opacity: 1 }}
                                 transition={{ duration: 1 }}
                                 end={{ opacity: 0 }}
                                 isTruncated
                               >
-                                {peer.id}
+                                {peer.orgId}
                               </MotionText>
                             </Tooltip>
                           </Center>
                         </Td>
                         <Td>
                           <Center>
-                            <Tooltip label={peer.enode} placement="auto">
+                            <Tooltip label={peer.ultimateParent} placement="auto">
                               <MotionText
-                                key={peer.enode}
+                                key={peer.ultimateParent}
                                 initial={{ opacity: 0 }}
                                 animate={{ opacity: 1 }}
                                 transition={{ duration: 1 }}
                                 end={{ opacity: 0 }}
                                 isTruncated
                               >
-                                {peer.enode}
+                                {peer.ultimateParent}
                               </MotionText>
                             </Tooltip>
                           </Center>
                         </Td>
                         <Td>
                           <Center>
-                            <Tooltip label={peer.localAddress} placement="auto">
+                            <Tooltip label={peer.url} placement="auto">
                               <MotionText
-                                key={peer.localAddress}
+                                key={peer.url}
                                 initial={{ opacity: 0 }}
                                 animate={{ opacity: 1 }}
                                 transition={{ duration: 1 }}
                                 end={{ opacity: 0 }}
                                 isTruncated
                               >
-                                {peer.localAddress}
+                                {peer.url}
+                              </MotionText>
+                            </Tooltip>
+                          </Center>
+                        </Td>
+                        {/* <Td>
+                          <Center>
+                            <Tooltip label={peer.orgId} placement="auto">
+                              <MotionText
+                                key={peer.orgId}
+                                initial={{ opacity: 0 }}
+                                animate={{ opacity: 1 }}
+                                transition={{ duration: 1 }}
+                                end={{ opacity: 0 }}
+                                isTruncated
+                              >
+                                {peer.orgId}
                               </MotionText>
                             </Tooltip>
                           </Center>
@@ -128,9 +137,8 @@ export default function NodePeers({ peers }: IProps) {
                               </MotionText>
                             </Tooltip>
                           </Center>
-                        </Td>
+                        </Td> */}
                       </Tr>
-                    </>
                   );
                 })}
               </Tbody>

diff --git a/src/pages/api/nodeGetPeers.ts b/src/pages/api/nodeGetPeers.ts
@@ -1,5 +1,5 @@
+import axios from "axios";
 import type { NextApiRequest, NextApiResponse } from "next";
-import { ethApiCall } from "../../common/lib/ethApiCall";
 import apiAuth from "../../common/lib/authentication";
 
 export default async function handler(
@@ -16,22 +16,34 @@ export default async function handler(
   }
 
   try {
-    const adminPeerInfo = await ethApiCall(rpcUrl, "admin_peers");
+    const adminPeerInfo = await axios({
+      method: "post",
+      url: rpcUrl,
+      data: { "jsonrpc": "2.0", "method": "quorumPermission_orgList", "id": 1 },
+      headers: { "Content-Type": "application/json" },
+      timeout: 2000,
+    });
     adminPeerInfo.data.result.map((node: any) => {
       const constructPeers = {
-        name: "",
-        localAddress: "",
-        remoteAddress: "",
-        port: "",
-        id: "",
-        enode: "",
+        // name: "",
+        // localAddress: "",
+        // remoteAddress: "",
+        // port: "",
+        // id: "",
+        // enode: "",
+        orgId: '',
+        url: '',
+        ultimateParent: ''
       };
-      constructPeers["name"] = node.name;
-      constructPeers["localAddress"] = node.network.localAddress;
-      constructPeers["remoteAddress"] = node.network.remoteAddress;
-      constructPeers["port"] = node.port;
-      constructPeers["id"] = node.id;
-      constructPeers["enode"] = node.enode;
+      // constructPeers["name"] = node.name;
+      // constructPeers["localAddress"] = node.network.localAddress;
+      // constructPeers["remoteAddress"] = node.network.remoteAddress;
+      // constructPeers["port"] = node.port;
+      // constructPeers["id"] = node.id;
+      // constructPeers["enode"] = node.enode;
+      constructPeers["orgId"] = node.orgId;
+      constructPeers["url"] = node.url;
+      constructPeers["ultimateParent"] = node.ultimateParent;
       peerDetails.push(constructPeers);
     });
   } catch (e) {

diff --git a/src/common/lib/ethApiCall.ts b/src/common/lib/ethApiCall.ts
@@ -35,7 +35,8 @@ const allowedMethods = [
 export async function ethApiCall(
   url: string,
   method: string,
-  params: any[] = []
+  params: any[] = [],
+  id=1
 ) {
   // Verify that url and methods cannot be subject to a server-side request forgery
   const getConf = JSON.parse(await configReader());
@@ -52,7 +53,7 @@ export async function ethApiCall(
       jsonrpc: "2.0",
       method: method,
       params: params,
-      id: 1,
+      id,
     },
     headers: { "Content-Type": "application/json" },
     timeout: 2000,

diff --git a/src/common/types/NavBar.ts b/src/common/types/NavBar.ts
@@ -23,10 +23,10 @@ export const NavItems: NavItem[] = [
     label: 'Transactions',
     icon: faCompass,
   },
-  {
-    label: 'Contracts',
-    icon: faFileAlt,
-  },
+  // {
+  //   label: 'Contracts',
+  //   icon: faFileAlt,
+  // },
   // {
   //   label: 'Wallets',
   //   icon: faWallet,
